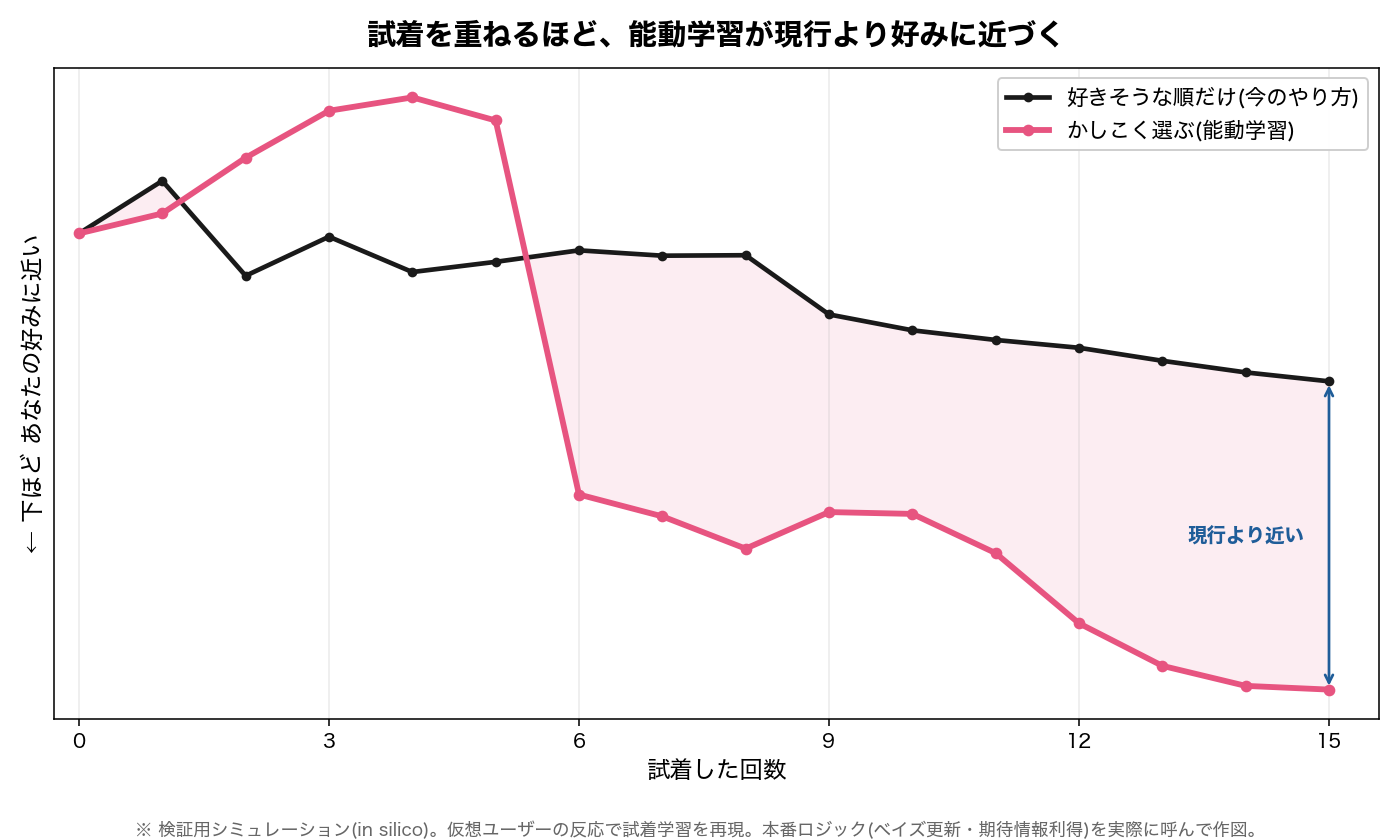
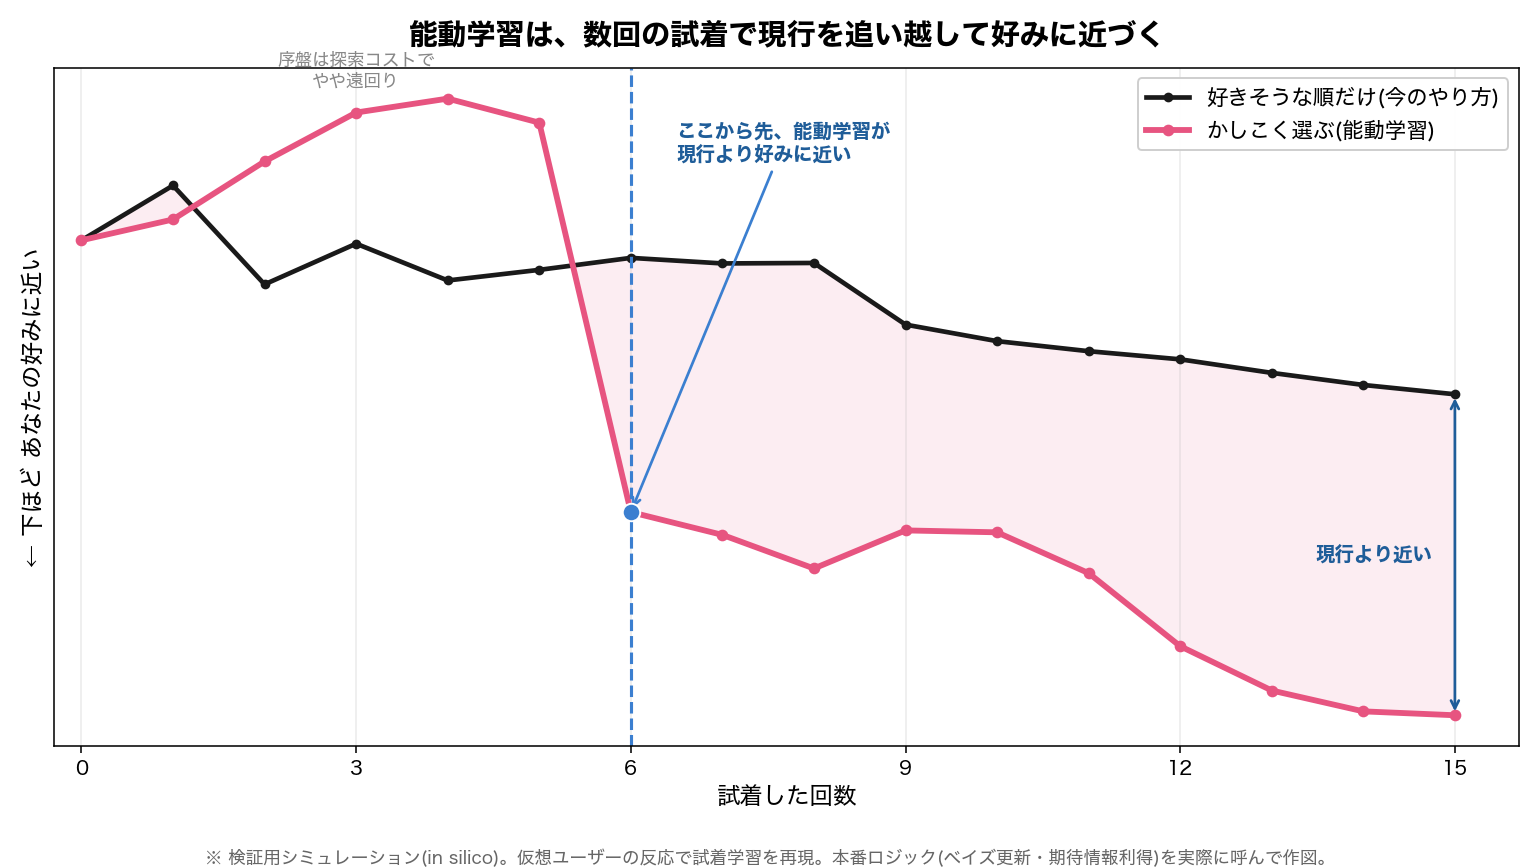
体験版グラフを1枚に統合(収束図と追い越し図を結合)
al_convergence と al_eig は同一の2曲線(現行 exploit vs 能動学習 EIG)で
N 範囲と注記が違うだけだったため、1枚に統合:
- N=0〜15 に「追い越し点(N=6)」「序盤の探索コスト」「末尾の優位」を集約
- make_fig1/make_fig2 → make_figure に一本化
- docs/figures/al_eig_advantage.png は削除、README を更新

スコープ: 既存コード/テストは未変更(描画スクリプト+図のみ)。

diff --git a/scripts/figures/make_experience_figures.py b/scripts/figures/make_experience_figures.py
@@ -5,9 +5,10 @@
 本番ロジック(bayesian / pair_compare / active_learning / recommend_v2)を実際に呼んで
 再現し、再現可能な形でリポジトリ(docs/figures)に残す。
 
-出力(2枚):
-  docs/figures/al_convergence_experience.png … 図1:能動学習なら少ない試着で好みに近づく
-  docs/figures/al_eig_advantage.png          … 図2:数回の試着で能動学習が現行を追い越す
+出力(1枚):
+  docs/figures/al_convergence_experience.png
+    … 現行(exploit) vs 能動学習(EIG)の収束。追い越し点・序盤の探索コスト・末尾の優位を
+      1枚に統合(旧 al_convergence と al_eig は同一の2曲線だったため統合)。
 
 【主張の範囲(重要・本番ΔE2000での再現結果に基づく)】
   当初スライドの「能動学習が最速(=ランダムにも勝つ)」は、本番 ΔE2000 で忠実再現すると
@@ -285,8 +286,7 @@ def _labels(jp: bool) -> Dict[str, str]:
             active="かしこく選ぶ(能動学習)",
             xlabel="試着した回数",
             ylabel="← 下ほど あなたの好みに近い",
-            title1="試着を重ねるほど、能動学習が現行より好みに近づく",
-            title2="数回の試着で、能動学習が現行を追い越す",
+            title="能動学習は、数回の試着で現行を追い越して好みに近づく",
             caption="※ 検証用シミュレーション(in silico)。仮想ユーザーの反応で試着学習を再現。"
                     "本番ロジック(ベイズ更新・期待情報利得)を実際に呼んで作図。",
             overtake="ここから先、能動学習が\n現行より好みに近い",
@@ -299,8 +299,7 @@ def _labels(jp: bool) -> Dict[str, str]:
         active="active learning (smart pick)",
         xlabel="number of try-ons",
         ylabel="lower = closer to your preference",
-        title1="As try-ons accumulate, active learning pulls closer to preference than current",
-        title2="Within a few try-ons, active learning overtakes the current method",
+        title="Active learning overtakes the current method within a few try-ons",
         caption="In-silico verification simulation; production logic (Bayesian update + "
                 "expected information gain) is actually invoked.",
         overtake="from here on, active learning\nis closer to preference",
@@ -315,7 +314,12 @@ C_ACTIVE = "#e75480"
 C_EXPLOIT = "#1a1a1a"
 
 
-def make_fig1(data: Dict, jp: bool) -> str:
+def make_figure(data: Dict, jp: bool, over: Optional[int]) -> str:
+    """統合図(1枚): 現行(exploit) vs 能動学習(EIG)の収束。
+
+    N=0〜N_MAX に、追い越し点・序盤の探索コスト・末尾の優位をすべて重ねる
+    (旧 al_convergence と al_eig は同一の2曲線なので1枚に統合)。
+    """
     import matplotlib
     matplotlib.use("Agg")
     import matplotlib.pyplot as plt
@@ -324,80 +328,47 @@ def make_fig1(data: Dict, jp: bool) -> str:
     c = data["curves"]
     ks = list(range(N_MAX + 1))
     ex, ac = c["exploit"], c["active_learning"]
+    ymax, ymin = max(max(ex), max(ac)), min(min(ex), min(ac))
+    span = ymax - ymin
 
-    fig, ax = plt.subplots(figsize=(10, 6))
+    fig, ax = plt.subplots(figsize=(11, 6.2))
     ax.plot(ks, ex, color=C_EXPLOIT, lw=2.4, marker="o", ms=4, label=L["exploit"])
     ax.plot(ks, ac, color=C_ACTIVE, lw=3.0, marker="o", ms=5, label=L["active"])
     # 能動学習が現行より近い区間を薄く塗る(優位の可視化)
     ax.fill_between(ks, ac, ex, where=[a < e for a, e in zip(ac, ex)],
                     color=C_ACTIVE, alpha=0.10, interpolate=True)
 
-    ax.set_title(L["title1"], fontsize=15, fontweight="bold", pad=12)
+    xticks = list(range(0, N_MAX + 1, 3))
+    if over is not None:
+        # 追い越し点(ここから先ずっと能動学習が現行を下回る)
+        ax.axvline(over, color="#3b7fd0", ls="--", lw=1.6)
+        ax.plot([over], [ac[over]], "o", color="#3b7fd0", ms=9, mec="white", zorder=5)
+        ax.annotate(L["overtake"], xy=(over, ac[over]),
+                    xytext=(over + 0.5, ymax - span * 0.10), ha="left",
+                    fontsize=10, color="#1f5d99", fontweight="bold",
+                    arrowprops=dict(arrowstyle="->", color="#3b7fd0", lw=1.4))
+        if over >= 3:  # 序盤の探索コストを正直に注記
+            ax.text(max(1, over // 2), ymax + span * 0.02, L["early"],
+                    ha="center", fontsize=9, color="#888")
+        xticks = sorted(set(xticks + [over]))
+    # 末尾の優位(現行よりどれだけ好みに近いか)
+    ax.annotate("", xy=(N_MAX, ac[-1]), xytext=(N_MAX, ex[-1]),
+                arrowprops=dict(arrowstyle="<->", color="#1f5d99", lw=1.4))
+    ax.text(N_MAX - 0.25, (ac[-1] + ex[-1]) / 2, L["advantage"], ha="right",
+            va="center", fontsize=10, color="#1f5d99", fontweight="bold")
+
+    ax.set_title(L["title"], fontsize=15, fontweight="bold", pad=12)
     ax.set_xlabel(L["xlabel"], fontsize=12)
     ax.set_ylabel(L["ylabel"], fontsize=12)
-    ax.set_xlim(-0.3, N_MAX + 0.6)
-    ax.set_xticks(range(0, N_MAX + 1, 3))
+    ax.set_xlim(-0.3, N_MAX + 0.7)
+    ax.set_xticks(xticks)
     ax.tick_params(axis="y", left=False, labelleft=False)  # 役員向け:縦軸の数値は隠す
     ax.grid(alpha=0.25, axis="x")
     ax.legend(fontsize=11, loc="upper right", framealpha=0.95)
-    # 末尾の優位を注記(現行よりどれだけ好みに近いか)
-    ax.annotate("", xy=(N_MAX, ac[-1]), xytext=(N_MAX, ex[-1]),
-                arrowprops=dict(arrowstyle="<->", color="#1f5d99", lw=1.4))
-    ax.text(N_MAX - 0.3, (ac[-1] + ex[-1]) / 2, L["advantage"], ha="right",
-            va="center", fontsize=10, color="#1f5d99", fontweight="bold")
     fig.text(0.5, 0.005, L["caption"], ha="center", fontsize=9, color="#666")
 
     fig.tight_layout(rect=[0, 0.04, 1, 1])
     out = os.path.join(OUT_DIR, "al_convergence_experience.png")
-    fig.savefig(out, dpi=140)
-    plt.close(fig)
-    return out
-
-
-def make_fig2(data: Dict, jp: bool, over: Optional[int]) -> str:
-    import matplotlib
-    matplotlib.use("Agg")
-    import matplotlib.pyplot as plt
-
-    L = _labels(jp)
-    c = data["curves"]
-    ks = list(range(N_FIG2 + 1))
-    ex, ac = c["exploit"][:N_FIG2 + 1], c["active_learning"][:N_FIG2 + 1]
-
-    fig, ax = plt.subplots(figsize=(10, 6))
-    ax.plot(ks, ex, color=C_EXPLOIT, lw=2.4, marker="o", ms=4, label=L["exploit"])
-    ax.plot(ks, ac, color=C_ACTIVE, lw=3.0, marker="o", ms=5, label=L["active"])
-    ax.fill_between(ks, ac, ex, where=[a < e for a, e in zip(ac, ex)],
-                    color=C_ACTIVE, alpha=0.10, interpolate=True)
-
-    ymax = max(max(ex), max(ac))
-    ymin = min(min(ex), min(ac))
-    if over is not None:
-        ax.axvline(over, color="#3b7fd0", ls="--", lw=1.6)
-        ax.plot([over], [ac[over]], "o", color="#3b7fd0", ms=9, mec="white", zorder=5)
-        ax.annotate(L["overtake"], xy=(over, ac[over]),
-                    xytext=(over + 0.4, ymax - (ymax - ymin) * 0.12), ha="left",
-                    fontsize=10, color="#1f5d99", fontweight="bold",
-                    arrowprops=dict(arrowstyle="->", color="#3b7fd0", lw=1.4))
-        # 序盤の探索コストを正直に注記
-        if over >= 3:
-            ax.text(max(1, over // 2), ymax - (ymax - ymin) * 0.04, L["early"],
-                    ha="center", fontsize=9, color="#888")
-        ax.set_xticks(sorted(set(list(range(0, N_FIG2 + 1, 3)) + [over])))
-    else:
-        ax.set_xticks(range(0, N_FIG2 + 1, 3))
-
-    ax.set_title(L["title2"], fontsize=15, fontweight="bold", pad=12)
-    ax.set_xlabel(L["xlabel"], fontsize=12)
-    ax.set_ylabel(L["ylabel"], fontsize=12)
-    ax.set_xlim(-0.3, N_FIG2 + 0.3)
-    ax.tick_params(axis="y", left=False, labelleft=False)
-    ax.grid(alpha=0.25, axis="x")
-    ax.legend(fontsize=11, loc="upper right", framealpha=0.95)
-    fig.text(0.5, 0.005, L["caption"], ha="center", fontsize=9, color="#666")
-
-    fig.tight_layout(rect=[0, 0.04, 1, 1])
-    out = os.path.join(OUT_DIR, "al_eig_advantage.png")
     fig.savefig(out, dpi=140)
     plt.close(fig)
     return out
@@ -452,10 +423,8 @@ def main() -> None:
     jp = _setup_font()
     if not jp:
         print("⚠ 日本語フォント未検出 → 英語ラベルで描画")
-    f1 = make_fig1(data, jp)
-    f2 = make_fig2(data, jp, over)
-    print(f"\n✅ 図1(収束): {f1}")
-    print(f"✅ 図2(追い越し): {f2}")
+    out = make_figure(data, jp, over)
+    print(f"\n✅ 図(収束・追い越し統合): {out}")
 
 
 if __name__ == "__main__":

diff --git a/docs/figures/README.md b/docs/figures/README.md
@@ -6,9 +6,9 @@
 ## 生成方法
 
 ```bash
-python scripts/figures/make_experience_figures.py   # 図1・図2(収束/追い越し)
-python scripts/figures/make_hit_rate_figure.py      # 図3(似合い率=体験の比較)
-python plot_explore_vs_fit.py                        # 図4(冒険度βと色exploitの関係)
+python scripts/figures/make_experience_figures.py   # 図1(収束・追い越し統合)
+python scripts/figures/make_hit_rate_figure.py      # 図2(似合い率=体験の比較)
+python plot_explore_vs_fit.py                        # 図3(冒険度βと色exploitの関係)
 ```
 
 - 乱数 seed は固定(`SEED` 定数)。仮想ユーザーの like 判定を `N_SEEDS` 回平均して曲線を均す。
@@ -19,15 +19,14 @@ python plot_explore_vs_fit.py                        # 図4(冒険度βと色exp
 
 | ファイル | 内容 |
 |---|---|
-| `al_convergence_experience.png` | 試着回数 N に対する「好みへの近さ」。**現行(好きそうな順=exploit)** vs **能動学習(EIG)**。試着を重ねるほど能動学習が現行を引き離す。 |
-| `al_eig_advantage.png` | 同じ2本を試着回数の現実的範囲(N≤12)で。能動学習が現行を **安定的に追い越す N** を明示(序盤は探索コストで一時的に遠回りする点も正直に注記)。 |
+| `al_convergence_experience.png` | 試着回数 N(0〜15)に対する「好みへの近さ」。**現行(好きそうな順=exploit)** vs **能動学習(EIG)**。**能動学習が現行を安定的に追い越す N** を明示し、序盤の探索コストと末尾の優位も1枚に集約(旧 al_convergence と al_eig を統合)。 |
 | `hit_rate_comparison.png` | **似合い率(体験)の比較**。出したおすすめのうち「似合う色」だった割合。現行(exploit)・能動学習(EIG)・random の3本。**random が体験面で最下位**(似合わない色を出し続ける)であることを示し、「ランダムでいいのでは」に決着をつける。 |
 | `explore_vs_fit.png` | **冒険度βと色exploitの関係**(色を無視しないことの可視化)。横軸=explore(0→max, β=β_max·explore)、縦軸=おすすめ上位の平均 ΔE2000(本番 vs 色exploitを外したα=0参考)。最大βでも本番ラインは ΔE≈3.5 で床打ちし、似合いしきい値(de50=12)の下に留まる=「冒険度を上げても色を無視しない」。`test_explore_does_not_ignore_color` が守る性質の可視化(生成元 `plot_explore_vs_fit.py` はリポジトリルート)。 |
 
-図1・図2の縦軸 = おすすめの中心(事後 μ_color)から真の好み TRUE_PREF までの ΔE2000。下ほど好みに近い。
+図1の縦軸 = おすすめの中心(事後 μ_color)から真の好み TRUE_PREF までの ΔE2000。下ほど好みに近い。
 役員向けに縦軸の数値ラベルは伏せ、相対関係だけを見せる。
 
-### 図3(似合い率)の指標
+### 図2(似合い率)の指標
 
 - ヒット率 = 「出したおすすめ N 件のうち、似合う色だった割合(累積)」(seed 平均)。
 - 「似合う」= ΔE2000(おすすめ色, その時点の θ_color.mu)が **de50=12 以下**
